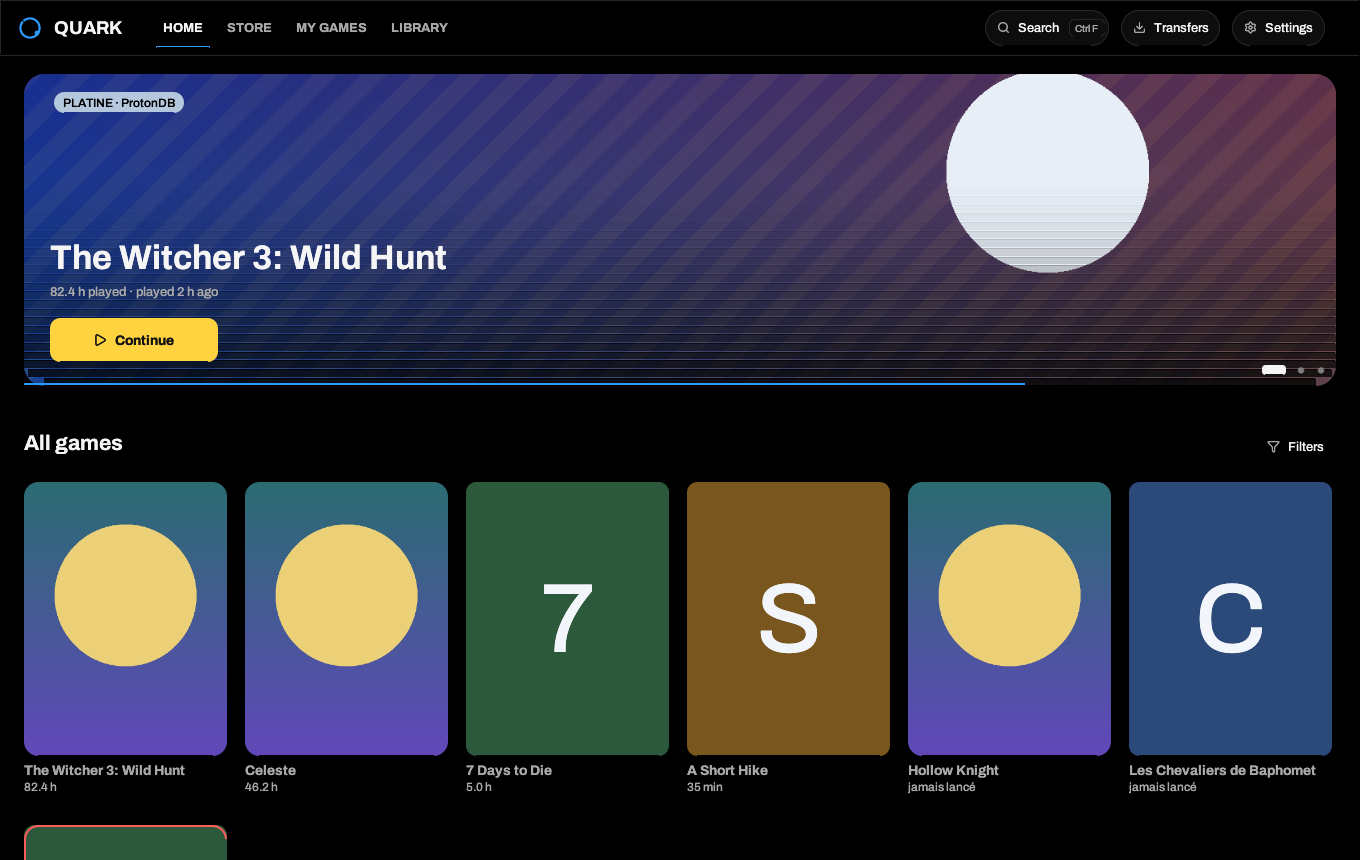
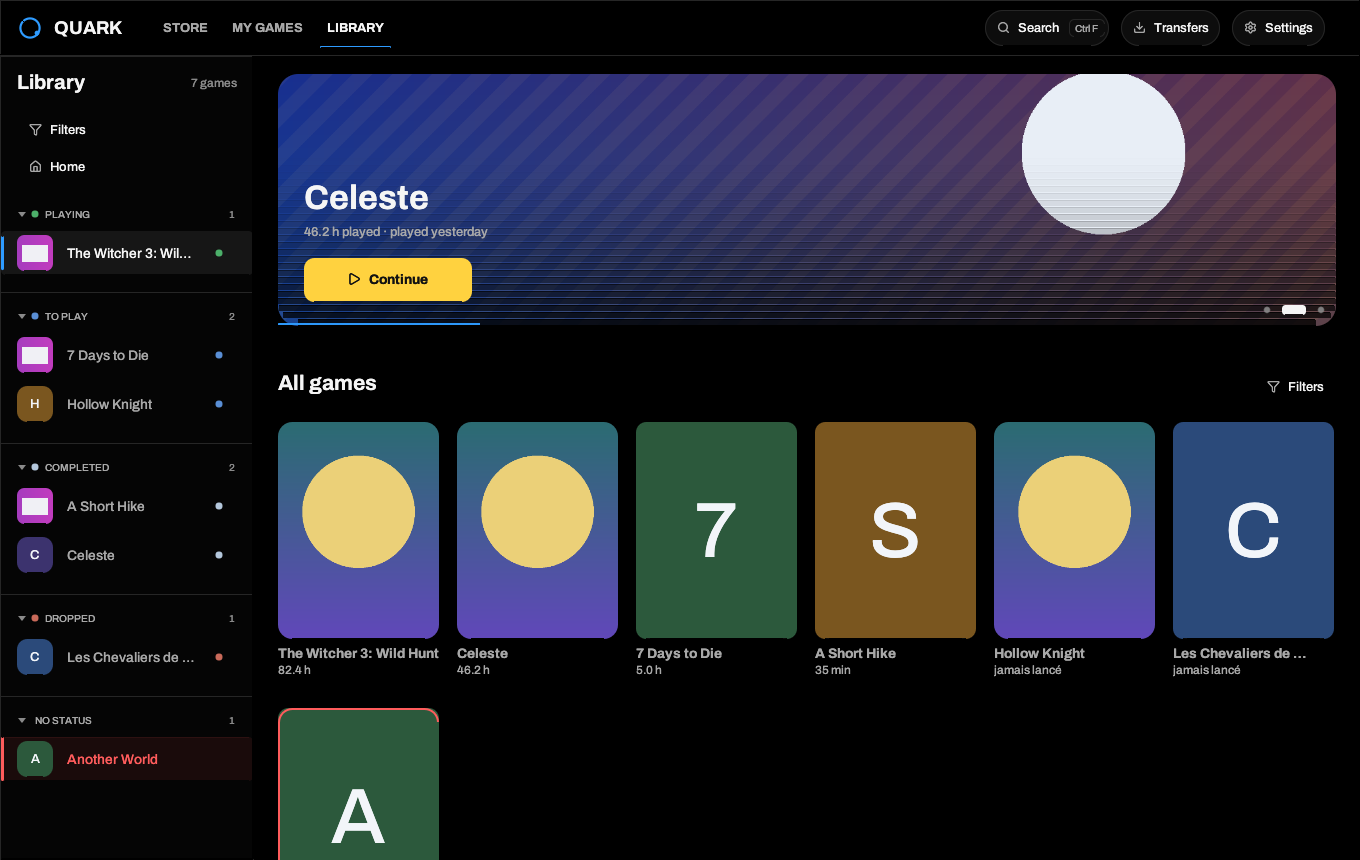
Corrige les packs GOG et intègre l'accueil à la bibliothèque
Les fiches « pack » sans builds de contenu, comme Amazon Prime, ne masquent plus le jeu installable portant le même titre ; Call of Juarez: Gunslinger retrouve ainsi son identifiant avec builds Windows.

L'accueil quitte la barre haute et reste accessible sous les filtres, avec la liste des jeux visible. Le site et la documentation passent en 1.8.3 avec les nouvelles captures.

🤖 Generated with Codebuff

diff --git a/site/index.html b/site/index.html
@@ -189,7 +189,7 @@ c2t:"Steam, Epic, GOG et itch.io",c2:"Lecture de vos bibliothèques Steam, conne
 c3t:"Proton sans terminal",c3:"Runtime, préfixe, GameMode, MangoHud, gamescope, PRIME et commande wrapper par jeu, en simples cases à cocher.",
 c4t:"Un vrai overlay",c4:"Panneau en jeu, succès, capture F12 et compteur FPS DirectX 11/12.",
 c5t:"Sauvegardes fiables",c5:"Instantanés Ludusavi avant et après chaque session, avec aperçu et restauration validée. Cloud Epic et GOG inclus.",
-c6t:"Fait pour vos yeux",c6:"Treize thèmes AMOLED, liste ou grille, carrousel d’accueil, recherche globale et réglages par tâche en cinq langues.",
+c6t:"Fait pour vos yeux",c6:"Treize thèmes AMOLED, liste ou grille, accueil sous les filtres avec la bibliothèque visible, recherche globale et réglages par tâche en cinq langues.",
 e2:"Un aperçu",t2:"Conçu pour qu’on y vive.",n2:"Captures réelles de l’interface actuelle, pas des maquettes.",
 tab:{home:"Accueil",library:"Bibliothèque",game:"Fiche de jeu",store:"Boutique","my-games":"Mes jeux",settings:"Réglages",onboarding:"Premier lancement"},
 e3:"Clavier d’abord",t3:"Rapide par défaut.",n3:"Tout est à un raccourci : cherchez un jeu ou un réglage, ouvrez l’overlay ou prenez une capture sans quitter le jeu.",
@@ -210,7 +210,7 @@ c2t:"Steam, Epic, GOG and itch.io",c2:"Reads your Steam libraries, signs in to E
 c3t:"Proton without a terminal",c3:"Per-game runtime, prefix, GameMode, MangoHud, gamescope, PRIME and wrapper command, all in plain checkboxes.",
 c4t:"An actual overlay",c4:"In-game panel, achievements, F12 screenshots and a DirectX 11/12 FPS counter.",
 c5t:"Saves you can trust",c5:"Ludusavi snapshots before and after each session, with preview and validated restore. Epic and GOG cloud saves included.",
-c6t:"Easy on the eyes",c6:"Thirteen AMOLED themes, list or grid, home carousel, global search and task-based settings in five languages.",
+c6t:"Easy on the eyes",c6:"Thirteen AMOLED themes, list or grid, a home view under the filters with your library still visible, global search and task-based settings in five languages.",
 e2:"A closer look",t2:"Built to be lived in.",n2:"Real screenshots of the current interface, not mockups.",
 tab:{home:"Home",library:"Library",game:"Game page",store:"Store","my-games":"My games",settings:"Settings",onboarding:"First launch"},
 e3:"Keyboard first",t3:"Fast by default.",n3:"Everything is a shortcut away: find a game or a setting, open the overlay or take a screenshot without leaving the game.",

diff --git a/src/providers/gog_library.rs b/src/providers/gog_library.rs
@@ -42,6 +42,9 @@ pub struct OwnedGame {
     pub title: String,
     /// Laissée vide : GOG ne publie pas de jaquette dans la fiche produit.
     pub cover_url: Option<String>,
+    /// `game`, `pack` ou `dlc`. Les packs n'ont pas de builds de contenu et
+    /// ne doivent jamais masquer le jeu qu'ils contiennent.
+    pub game_type: String,
 }
 
 fn client() -> reqwest::blocking::Client {
@@ -405,6 +408,17 @@ fn title_key(title: &str) -> String {
         .collect()
 }
 
+/// Priorité de conservation quand deux fiches portent le même titre : un jeu
+/// installable passe avant un pack (Amazon Prime, bundle), qui n'a pas de
+/// builds de contenu et ne peut pas être téléchargé par gogdl.
+fn gog_product_rank(game_type: &str) -> u8 {
+    match game_type {
+        "game" => 0,
+        "pack" => 1,
+        _ => 2,
+    }
+}
+
 /// Nettoie les titres et fusionne les doublons créés par Amazon Prime. La fiche
 /// sans suffixe est gardée en priorité, avec son identifiant GOG d'origine.
 fn dedupe_gog_titles(games: &mut Vec<OwnedGame>) {
@@ -414,6 +428,9 @@ fn dedupe_gog_titles(games: &mut Vec<OwnedGame>) {
     games.sort_by(|left, right| {
         title_key(&left.title)
             .cmp(&title_key(&right.title))
+            .then_with(|| {
+                gog_product_rank(&left.game_type).cmp(&gog_product_rank(&right.game_type))
+            })
             .then_with(|| left.title.len().cmp(&right.title.len()))
             .then_with(|| left.id.cmp(&right.id))
     });
@@ -465,13 +482,15 @@ pub fn parse_products(body: &str) -> Result<Vec<OwnedGame>, String> {
     };
     let mut games = Vec::new();
     for entry in entries {
-        // Les packs et DLC partagent la liste des produits possédés : ils ne
-        // sont pas des jeux lançables et n'ont pas leur place dans la grille.
-        let kind = entry
+        // Les DLC ne sont pas des jeux lançables. Les packs sont conservés
+        // seulement comme repli : s'ils doublonnent un vrai jeu, la
+        // déduplication garde le jeu, seul à posséder des builds de contenu.
+        let game_type = entry
             .get("game_type")
             .and_then(Value::as_str)
-            .unwrap_or("game");
-        if kind == "dlc" {
+            .unwrap_or("game")
+            .to_string();
+        if game_type == "dlc" {
             continue;
         }
         let id = match entry.get("id") {
@@ -492,6 +511,7 @@ pub fn parse_products(body: &str) -> Result<Vec<OwnedGame>, String> {
             id,
             title: clean_gog_title(&title),
             cover_url: None,
+            game_type,
         });
     }
     games.sort_by_key(|left| left.title.to_lowercase());
@@ -568,10 +588,20 @@ fn filtered_products(token: &str) -> Result<Vec<OwnedGame>, String> {
             if title.is_empty() || id.is_empty() || is_movie {
                 continue;
             }
+            let game_type = entry
+                .get("gameType")
+                .or_else(|| entry.get("game_type"))
+                .and_then(Value::as_str)
+                .unwrap_or("game")
+                .to_string();
+            if game_type == "dlc" {
+                continue;
+            }
             games.push(OwnedGame {
                 id,
                 title: clean_gog_title(&title),
                 cover_url: None,
+                game_type,
             });
         }
         let total_pages = root.get("totalPages").and_then(Value::as_u64).unwrap_or(1);
@@ -1349,12 +1379,14 @@ mod tests {
                 OwnedGame {
                     id: "2".into(),
                     title: "alpha".into(),
-                    cover_url: None
+                    cover_url: None,
+                    game_type: "game".into()
                 },
                 OwnedGame {
                     id: "1".into(),
                     title: "Zebra".into(),
-                    cover_url: None
+                    cover_url: None,
+                    game_type: "game".into()
                 }
             ]
         );
@@ -1365,7 +1397,8 @@ mod tests {
             vec![OwnedGame {
                 id: "9".into(),
                 title: "Page Game".into(),
-                cover_url: None
+                cover_url: None,
+                game_type: "game".into()
             }]
         );
         assert!(parse_products("nope").is_err());
@@ -1399,12 +1432,29 @@ mod tests {
     }
 
     #[test]
+    fn une_fiche_pack_ne_masque_pas_le_jeu_installable() {
+        // Cas réel : Call of Juarez: Gunslinger possède une fiche « jeu » avec
+        // builds et une fiche « pack » Amazon Prime sans builds. Le pack a un
+        // identifiant plus petit et était conservé en premier par le tri.
+        let body = r#"[
+          {"id": 1662043288, "title": "Call of Juarez: Gunslinger - Amazon Prime", "game_type": "pack"},
+          {"id": 2015389384, "title": "Call of Juarez: Gunslinger", "game_type": "game"}
+        ]"#;
+        let games = parse_products(body).unwrap();
+        assert_eq!(games.len(), 1);
+        assert_eq!(games[0].id, "2015389384");
+        assert_eq!(games[0].title, "Call of Juarez: Gunslinger");
+        assert_eq!(games[0].game_type, "game");
+    }
+
+    #[test]
     fn conversion_produit_une_entree_gog_sans_etat_d_installation() {
         let games = to_games(
             &[OwnedGame {
                 id: "42".into(),
                 title: "Game".into(),
                 cover_url: None,
+                game_type: "game".into(),
             }],
             99,
         );

diff --git a/src/ui_library.rs b/src/ui_library.rs
@@ -20,11 +20,12 @@ impl QuarkApp {
         // la fiche en pleine page ; elle remplace la grille et sa colonne.
         let grid_only = view == ViewMode::Grid && !self.grid_detail;
         let detail_open = grid_only && self.overlay.is_some() && !self.home;
-        // L'accueil est une page autonome : il n'a pas de colonne de filtres.
-        // La bibliothèque garde la sienne, sauf quand elle est entièrement vide
-        // et que la fiche peut utiliser toute la largeur.
+        // L'accueil partage la colonne de la bibliothèque : filtres et liste de
+        // jeux restent visibles pendant qu'il occupe le panneau central.
+        // La colonne disparaît seulement quand la bibliothèque est vide ou
+        // qu'une fiche occupe toute la largeur.
         let empty_library = self.lib.games.is_empty();
-        if !self.home && !empty_library && !detail_open {
+        if !empty_library && !detail_open {
             egui::SidePanel::left("quark_library_list")
                 .exact_width(self.lib.settings.sidebar_width.clamp(220.0, 340.0))
                 .resizable(false)
@@ -328,8 +329,8 @@ impl QuarkApp {
         let mut remove_marked = false;
         let mut clear_marked = false;
 
-        // « Accueil » ouvre la liste, comme dans Steam : une vraie ligne, sur la
-        // même grille que les jeux, avec le « + » d'ajout à droite.
+        // En-tête de la colonne : la liste et les filtres restent visibles sur
+        // l'accueil comme sur la fiche.
         ui.add_space(14.0);
         ui.horizontal(|ui| {
             ui.add_space(16.0);
@@ -349,9 +350,18 @@ impl QuarkApp {
             });
         });
         ui.add_space(10.0);
-        // L'accueil a son onglet dans la barre haute : la colonne ne garde que
-        // le panneau Filtres, qui réunit aussi les vues, le tri et le regroupement.
+        // Le panneau Filtres réunit aussi les vues, le tri et le regroupement.
+        // L'accueil se trouve juste en dessous, dans la même colonne.
         self.filter_menu(ui, 16.0);
+        ui.horizontal(|ui| {
+            ui.add_space(16.0);
+            if widgets::ghost_button(ui, "Accueil", &pal, Icon::Home).clicked() {
+                self.tab = crate::app::Tab::Library;
+                self.home = true;
+                self.overlay = None;
+                self.detail_from_home = false;
+            }
+        });
         if marked_count > 0 {
             // Barre de sélection : supprimer plusieurs jeux d'un coup.
             ui.horizontal(|ui| {

diff --git a/src/app.rs b/src/app.rs
@@ -3269,17 +3269,9 @@ impl QuarkApp {
                     );
                     ui.add_space(26.0);
 
-                    // L'accueil est une page autonome : il a son propre onglet
-                    // et ne partage plus l'état actif de la bibliothèque.
-                    let home_active =
-                        self.tab == Tab::Library && (self.home || self.detail_from_home);
-                    let library_active = self.tab == Tab::Library && !home_active;
-                    if widgets::tab(ui, "Accueil", home_active, &pal).clicked() {
-                        self.tab = Tab::Library;
-                        self.home = true;
-                        self.overlay = None;
-                        self.detail_from_home = false;
-                    }
+                    // L'accueil vit dans la colonne de la bibliothèque, sous
+                    // les filtres : la barre haute n'a plus d'onglet dédié.
+                    let library_active = self.tab == Tab::Library;
                     if widgets::tab(ui, "Boutique", self.tab == Tab::Store, &pal).clicked() {
                         self.tab = Tab::Store;
                         self.home = false;

diff --git a/docs/release-notes.md b/docs/release-notes.md
@@ -1,17 +1,18 @@
-## Quark 1.8.2 — Les sauvegardes personnalisées survivent aux synchros
+## Quark 1.8.3 — GOG installe le bon jeu, l'accueil reste dans la bibliothèque
 
-### Correction
+### Corrections
 
-- **Epic et Steam : les dossiers de sauvegarde choisis ne disparaissent plus.** `merge_epic` et `merge_sync` repartaient de la fiche rafraîchie, dont `custom_save_paths` est vide, puis remplaçaient l'ancienne fiche. Les chemins personnalisés sont désormais fusionnés avec ceux déjà stockés, sans doublon, avant l'écriture.
-- **La fusion résiste aussi aux synchros partielles.** Steam conserve les chemins même quand la liste possédée n'est pas disponible et que seuls les jeux locaux sont fusionnés. Les installations Epic vérifiées gardent la même union de chemins.
-- **Deux tests de régression** couvrent `merge_epic` et `merge_sync` avec un dossier personnalisé existant et une fiche rafraîchie sans chemin.
+- **GOG : un pack ne masque plus le jeu installable.** Amazon Prime expose Call of Juarez: Gunslinger sous deux fiches de même titre : le jeu (`2015389384`), qui possède des builds Windows generation 2, et le pack (`1662043288`), qui n'en a aucun. La déduplication gardait le pack parce que son identifiant était plus petit, puis gogdl échouait avec « Game doesn't support content system api ». Elle conserve désormais la fiche `game` en priorité et ne se rabat sur le pack que s'il est la seule entrée.
+- **L'accueil reste dans la bibliothèque.** L'onglet Accueil est retiré de la barre haute. Une entrée **Accueil** se trouve sous **Filtres**, dans la colonne de gauche, et cette colonne garde la liste des jeux visible pendant que le carrousel occupe le panneau central. `Échap` revient à la liste.
+- **Un test de régression** reproduit les deux fiches réelles de Call of Juarez: Gunslinger et vérifie que l'identifiant du jeu installable est conservé.
 
 ### Vérifications
 
 - `cargo fmt --check` : OK.
-- `cargo test --locked` : 333 tests réussis.
+- `cargo test --locked` : 334 tests réussis.
 - `cargo clippy --all-targets --locked -- -D warnings` : OK.
+- Rendu hors écran de l'accueil en français et en anglais : la colonne Filtres/Accueil et la liste restent visibles.
 
-### Limites connues
+### Limite connue
 
-- La correction est couverte par des tests unitaires de fusion ; aucune synchronisation Epic ou Steam réelle n'a été effectuée dans cet environnement, faute de comptes configurés.
+- Si un compte ne possède que la fiche « pack » et aucune fiche de jeu correspondante, gogdl ne peut toujours pas installer ce contenu sans builds. Quark conserve alors le pack pour ne pas perdre l'entrée de bibliothèque.

diff --git a/README.md b/README.md
@@ -6,7 +6,7 @@ titles you own, launches Windows games through Proton (or umu-launcher), and sta
 the way with an AMOLED interface, a store page, save snapshots and an in-game
 overlay.
 
-This is the **1.8.2** documentation. Older release notes are kept on the GitHub
+This is the **1.8.3** documentation. Older release notes are kept on the GitHub
 releases page; `docs/release-notes.md` only describes the release currently
 being published.
 
@@ -28,14 +28,15 @@ The wiki is published from the versioned source in [`wiki/`](wiki/) by the
 | --- | --- |
 | ![Onboarding](docs/images/onboarding-fr.png) | ![What's new](docs/images/whats-new-fr.png) |
 
-## What's new in 1.8.2
+## What's new in 1.8.3
 
-- **Les dossiers de sauvegarde personnalisés survivent aux synchros.** Une synchronisation Epic ou Steam conserve les chemins choisis dans la fiche de jeu au lieu de repartir avec une liste vide. Les chemins connus sont fusionnés sans doublon, y compris quand la liste possédée de Steam est indisponible.
-- **Deux tests de régression** vérifient `merge_epic` et `merge_sync` avec un dossier personnalisé existant et une fiche rafraîchie sans chemin.
+- **GOG : un pack ne masque plus le jeu installable.** Amazon Prime expose Call of Juarez: Gunslinger sous deux fiches de même titre ; le pack n'a aucun build de contenu et faisait échouer gogdl avec « Game doesn't support content system api ». La déduplication garde désormais la fiche `game`, celle qui possède les builds Windows, et ne conserve le pack que s'il est seul.
+- **L'accueil reste dans la bibliothèque.** L'onglet Accueil quitte la barre haute : il se trouve sous **Filtres**, et la colonne avec la liste des jeux reste visible pendant que le carrousel occupe le panneau central. `Échap` revient à la liste.
+- **Un test de régression** reproduit les deux fiches réelles de Call of Juarez: Gunslinger et vérifie que l'identifiant du jeu installable est conservé.
 
 ## Table of contents
 
-1. [What's new in 1.8.2](#whats-new-in-182)
+1. [What's new in 1.8.3](#whats-new-in-183)
 2. [What Quark does](#what-quark-does)
 3. [Installation](#installation)
 4. [First launch](#first-launch)
@@ -95,8 +96,8 @@ Download `quark-<version>-linux-x86_64.tar.gz` and its `.sha256` file from the
 then verify and unpack it:
 
 ```bash
-sha256sum -c quark-1.8.2-linux-x86_64.tar.gz.sha256
-tar -xzf quark-1.8.2-linux-x86_64.tar.gz
+sha256sum -c quark-1.8.3-linux-x86_64.tar.gz.sha256
+tar -xzf quark-1.8.3-linux-x86_64.tar.gz
 ./quark/quark
 ```
 

diff --git a/wiki/Home.md b/wiki/Home.md
@@ -5,21 +5,29 @@ games and your Steam, Epic Games and GOG libraries together, launches Windows
 games through Proton or umu-launcher, and adds an in-game overlay, screenshots,
 achievements and verified local saves.
 
-This documentation describes **Quark 1.8.2**. It is also versioned in the
+This documentation describes **Quark 1.8.3**. It is also versioned in the
 repository under [`wiki/`](https://github.com/Matheotaku4/Quark/tree/main/wiki).
 
 ![Quark home](https://raw.githubusercontent.com/Matheotaku4/Quark/main/docs/images/home-en.png)
 
-## What's new in 1.8.2
+## What's new in 1.8.3
 
+- **A GOG pack no longer hides the installable game.** Amazon Prime lists Call of
+  Juarez: Gunslinger twice under the same title, and the pack has no content
+  builds, so gogdl failed with “Game doesn't support content system api”.
+  Deduplication now keeps the `game` entry with the Windows builds and only
+  falls back to the pack when it is the only entry.
+- **Home stays inside the library.** The Home tab is gone from the top bar: Home
+  sits under **Filters**, and the game list and filters remain visible while the
+  carousel fills the central pane. `Escape` returns to the list.
+- **A regression test** reproduces both real Call of Juarez: Gunslinger entries
+  and checks that the installable game ID wins.
 - **Custom save folders survive library syncs.** An Epic or Steam refresh now
   keeps the folders chosen in a game page instead of replacing them with an
   empty list. Known paths are merged without duplicates, including when Steam's
   owned-games list is unavailable.
 - **Two regression tests** cover `merge_epic` and `merge_sync` with an existing
   custom folder and a refreshed record without paths.
-- **A home page of its own.** Home has a dedicated tab, a full-width hero and a
-  recent-games carousel, without the library sidebar.
 - **A contextual game page.** Opening a game from the grid shows the list-style
   page; **Back** or `Escape` returns to Home or the grid depending on where you
   came from, restoring the carousel slide.

diff --git a/wiki/Installation.md b/wiki/Installation.md
@@ -19,13 +19,13 @@ Quark needs no Quark account and sends no telemetry.
 
 ## Release archive
 
-1. Download `quark-1.8.2-linux-x86_64.tar.gz` and its `.sha256` file from the
+1. Download `quark-1.8.3-linux-x86_64.tar.gz` and its `.sha256` file from the
    [latest release](https://github.com/Matheotaku4/Quark/releases/latest).
 2. Verify the archive **before** extracting it:
 
    ```bash
-   sha256sum -c quark-1.8.2-linux-x86_64.tar.gz.sha256
-   tar -xzf quark-1.8.2-linux-x86_64.tar.gz
+   sha256sum -c quark-1.8.3-linux-x86_64.tar.gz.sha256
+   tar -xzf quark-1.8.3-linux-x86_64.tar.gz
    ./quark/quark
    ```
 
@@ -47,7 +47,7 @@ in `quark.desktop`.
 
 ## Update from 1.1.4 or later
 
-Quark 1.8.2 keeps the `config.json` format used by 1.1.4 and adds fields with
+Quark 1.8.3 keeps the `config.json` format used by 1.1.4 and adds fields with
 default values. Updating does not require resetting the library and does not
 force the welcome guide on existing installations.
 
@@ -67,12 +67,12 @@ executable is kept until the next successful start.
 
 If automatic updates are disabled or fail:
 
-1. Quit Quark, then download the 1.8.2 archive and its checksum.
+1. Quit Quark, then download the 1.8.3 archive and its checksum.
 2. Verify the checksum, then replace only the binary:
 
    ```bash
-   sha256sum -c quark-1.8.2-linux-x86_64.tar.gz.sha256
-   tar -xzf quark-1.8.2-linux-x86_64.tar.gz
+   sha256sum -c quark-1.8.3-linux-x86_64.tar.gz.sha256
+   tar -xzf quark-1.8.3-linux-x86_64.tar.gz
    install -Dm755 quark/quark ~/.local/bin/quark
    ```
 
@@ -80,7 +80,7 @@ If automatic updates are disabled or fail:
 
 Your games, prefixes, saves, artwork, Legendary/gogdl accounts and statistics
 stay in the same folders. The welcome guide is skipped for an existing library;
-the **What's new in 1.8.2** summary appears once.
+the **What's new in 1.8.3** summary appears once.
 
 > Do not delete `~/.config/quark/config.json` to "repair" an update. If the file
 > cannot be read, Quark keeps a `config.json.corrompu-<timestamp>` copy and

diff --git a/wiki/_Footer.md b/wiki/_Footer.md
@@ -1,1 +1,1 @@
-Quark 1.8.2 · [Repository](https://github.com/Matheotaku4/Quark) · [Release](https://github.com/Matheotaku4/Quark/releases/latest) · Documentation under the MIT licence
+Quark 1.8.3 · [Repository](https://github.com/Matheotaku4/Quark) · [Release](https://github.com/Matheotaku4/Quark/releases/latest) · Documentation under the MIT licence

diff --git a/wiki/README.md b/wiki/README.md
@@ -33,6 +33,6 @@ git clone https://github.com/Matheotaku4/Quark.wiki.git /tmp/quark-wiki
 rsync -av --exclude README.md wiki/ /tmp/quark-wiki/
 cd /tmp/quark-wiki
 git add -A
-git commit -m "Quark 1.8.2 documentation"
+git commit -m "Quark 1.8.3 documentation"
 git push
 ```
